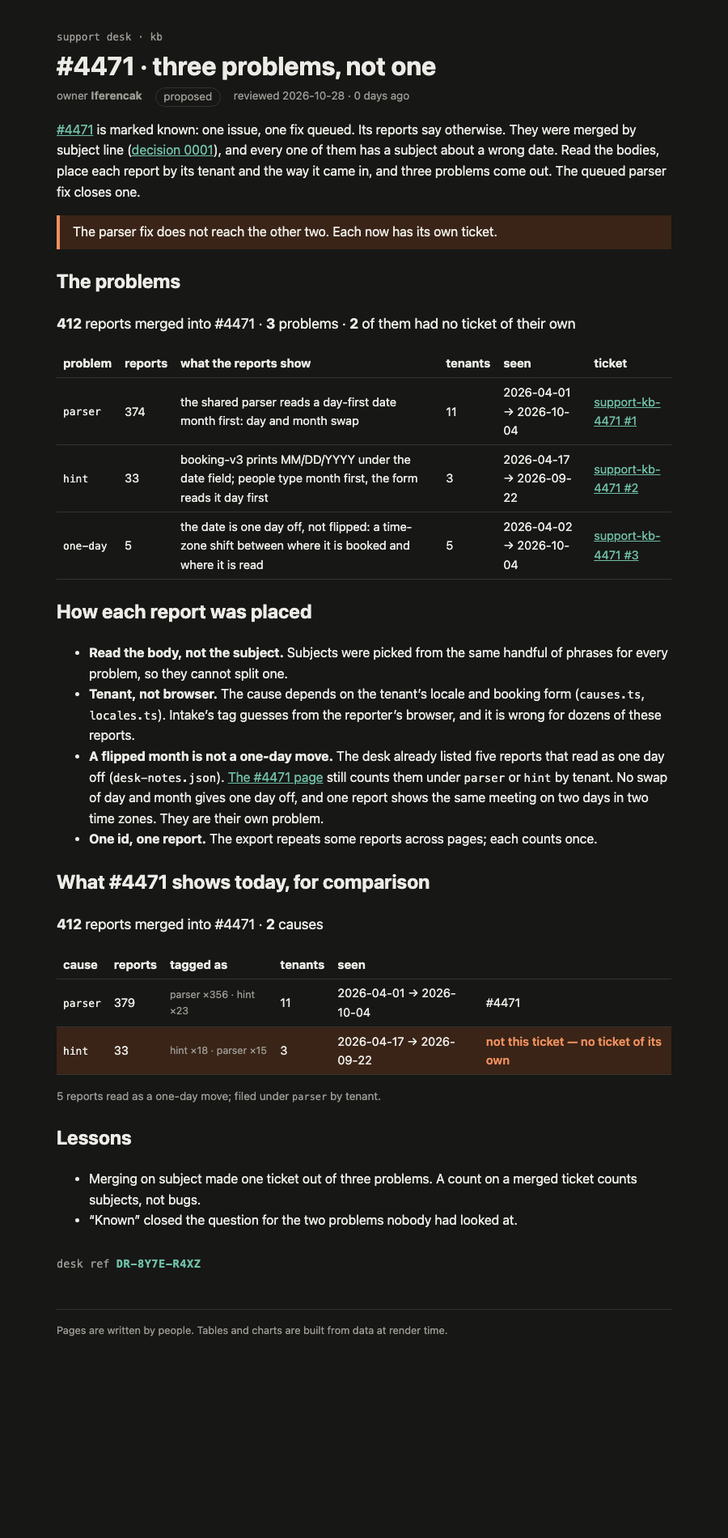
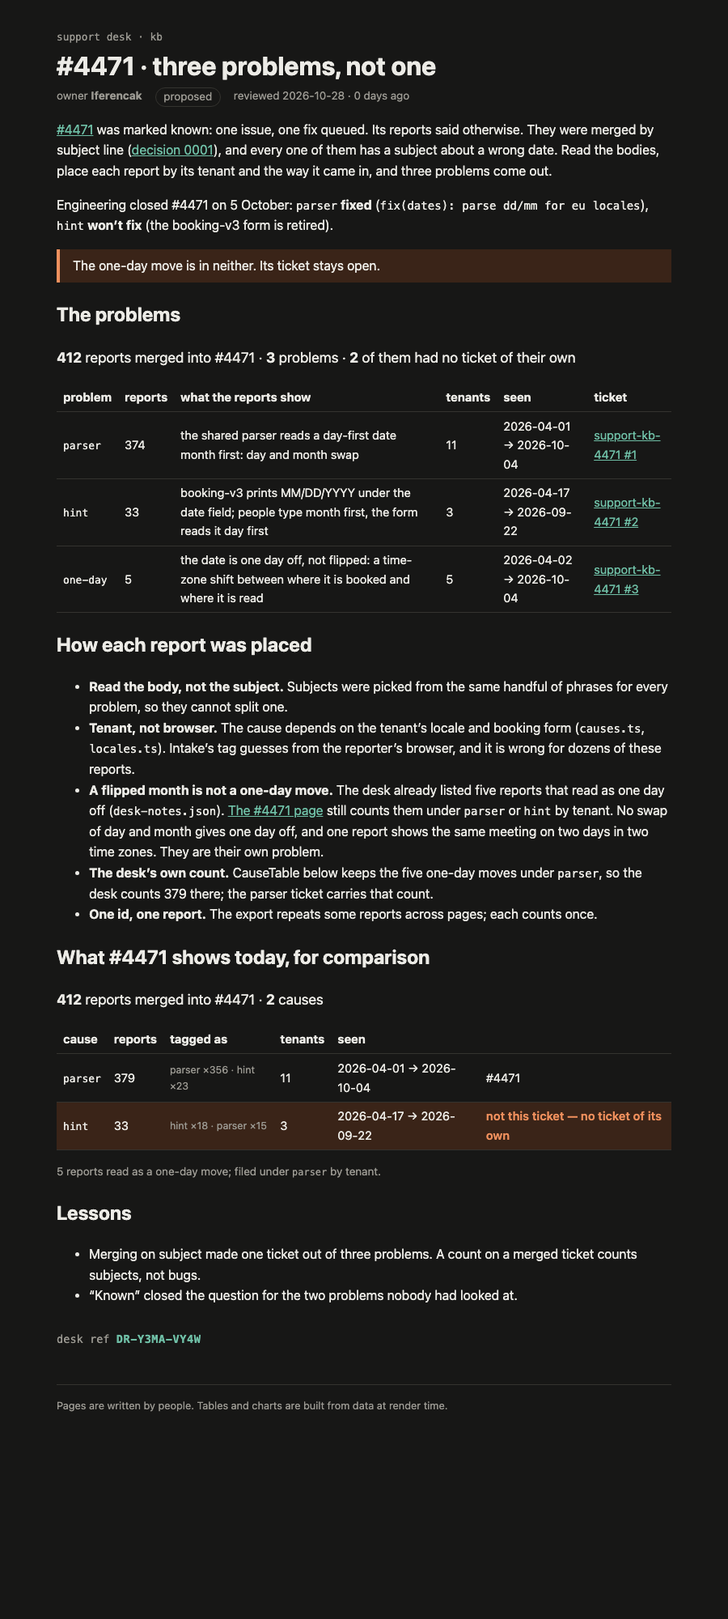
Sign the #4471 problems page with the course ticket; note the engineering update

diff --git a/build/kb/incidents/4471-problems.html b/build/kb/incidents/4471-problems.html
@@ -9,11 +9,11 @@
 		<link href="../../_app/immutable/chunks/B2Ul7l_u.js" rel="modulepreload">
 		<link href="../../_app/immutable/chunks/BCPXOG7W.js" rel="modulepreload">
 		<link href="../../_app/immutable/chunks/Dh1V97Jm.js" rel="modulepreload">
-		<link href="../../_app/immutable/entry/app.B90I1PcM.js" rel="modulepreload">
+		<link href="../../_app/immutable/entry/app.B06_3ySd.js" rel="modulepreload">
 		<link href="../../_app/immutable/nodes/0.C9KfiiPz.js" rel="modulepreload">
 		<link href="../../_app/immutable/chunks/DK3Fl9T5.js" rel="modulepreload">
-		<link href="../../_app/immutable/nodes/5.CSGv4fGk.js" rel="modulepreload">
-		<link href="../../_app/immutable/chunks/BqlhAtKi.js" rel="modulepreload">
+		<link href="../../_app/immutable/nodes/5.znO8hR4B.js" rel="modulepreload">
+		<link href="../../_app/immutable/chunks/DJBptTha.js" rel="modulepreload">
 		<link href="../../_app/immutable/chunks/BTPwLomz.js" rel="modulepreload">
 		<link href="../../_app/immutable/chunks/CVzl_KNK.js" rel="modulepreload">
 		<link href="../../_app/immutable/chunks/BIy4WKJS.js" rel="modulepreload">
@@ -23,29 +23,30 @@
 		<link href="../../_app/immutable/assets/CauseTable.DuKfINX_.css" rel="stylesheet">
 		<link href="../../_app/immutable/assets/_page.CgouBqEL.css" rel="stylesheet">
   </head>
-  <body><div style="display: contents"><!--[--><!--[--><!--[0--><!--[--><!--[--><!--[-1--><!--[--><div class="kb svelte-e2jw2j"><header><a class="crumb svelte-e2jw2j" href="/kb">support desk · kb</a> <h1 class="svelte-e2jw2j">#4471 · three problems, not one</h1> <p class="meta svelte-e2jw2j"><span>owner <b>Iferencak</b></span> <span class="status proposed svelte-e2jw2j">proposed</span> <span class="svelte-e2jw2j">reviewed 2026-10-28 · 0 days ago</span></p></header> <!--[-1--><!--]--> <main><p><a href="/kb/incidents/4471">#4471</a> is marked known: one issue, one fix queued. Its reports say otherwise.
+  <body><div style="display: contents"><!--[--><!--[--><!--[0--><!--[--><!--[--><!--[-1--><!--[--><div class="kb svelte-e2jw2j"><header><a class="crumb svelte-e2jw2j" href="/kb">support desk · kb</a> <h1 class="svelte-e2jw2j">#4471 · three problems, not one</h1> <p class="meta svelte-e2jw2j"><span>owner <b>Iferencak</b></span> <span class="status proposed svelte-e2jw2j">proposed</span> <span class="svelte-e2jw2j">reviewed 2026-10-28 · 0 days ago</span></p></header> <!--[-1--><!--]--> <main><p><a href="/kb/incidents/4471">#4471</a> was marked known: one issue, one fix queued. Its reports said otherwise.
 They were merged by subject line (<a href="/kb/decisions/0001-dedupe-by-subject">decision 0001</a>), and
 every one of them has a subject about a wrong date. Read the bodies, place each report by its
-tenant and the way it came in, and three problems come out. The queued parser fix closes one.</p> <aside class="warn svelte-17bri61"><!---->The parser fix does not reach the other two. Each now has its own ticket.<!----></aside><!----> <h2>The problems</h2> <p class="sum svelte-1op6c6"><strong>412</strong> reports merged into #4471 · <strong>3</strong> problems · <strong>2</strong> of them had no ticket of their own</p> <table><thead><tr><th>problem</th><th>reports</th><th>what the reports show</th><th>tenants</th><th>seen</th><th>ticket</th></tr></thead><tbody><!--[--><tr><td><code>parser</code></td><td>374</td><td>the shared parser reads a day-first date month first: day and month swap</td><td>11</td><td>2026-04-01 → 2026-10-04</td><td><!--[0--><a href="https://github.com/Iferencak/support-kb-4471/issues/1">support-kb-4471 #1</a><!--]--></td></tr><tr><td><code>hint</code></td><td>33</td><td>booking-v3 prints MM/DD/YYYY under the date field; people type month first, the form reads it day first</td><td>3</td><td>2026-04-17 → 2026-09-22</td><td><!--[0--><a href="https://github.com/Iferencak/support-kb-4471/issues/2">support-kb-4471 #2</a><!--]--></td></tr><tr><td><code>one-day</code></td><td>5</td><td>the date is one day off, not flipped: a time-zone shift between where it is booked and where it is read</td><td>5</td><td>2026-04-02 → 2026-10-04</td><td><!--[0--><a href="https://github.com/Iferencak/support-kb-4471/issues/3">support-kb-4471 #3</a><!--]--></td></tr><!--]--></tbody></table><!----> <h2>How each report was placed</h2> <ul><li><strong>Read the body, not the subject.</strong> Subjects were picked from the same handful of phrases for
+tenant and the way it came in, and three problems come out.</p> <p>Engineering closed #4471 on 5 October: <code>parser</code> <strong>fixed</strong> (<code>fix(dates): parse dd/mm for eu locales</code>), <code>hint</code> <strong>won’t fix</strong> (the booking-v3 form is retired).</p> <aside class="warn svelte-17bri61"><!---->The one-day move is in neither. Its ticket stays open.<!----></aside><!----> <h2>The problems</h2> <p class="sum svelte-1op6c6"><strong>412</strong> reports merged into #4471 · <strong>3</strong> problems · <strong>2</strong> of them had no ticket of their own</p> <table><thead><tr><th>problem</th><th>reports</th><th>what the reports show</th><th>tenants</th><th>seen</th><th>ticket</th></tr></thead><tbody><!--[--><tr><td><code>parser</code></td><td>374</td><td>the shared parser reads a day-first date month first: day and month swap</td><td>11</td><td>2026-04-01 → 2026-10-04</td><td><!--[0--><a href="https://github.com/Iferencak/support-kb-4471/issues/1">support-kb-4471 #1</a><!--]--></td></tr><tr><td><code>hint</code></td><td>33</td><td>booking-v3 prints MM/DD/YYYY under the date field; people type month first, the form reads it day first</td><td>3</td><td>2026-04-17 → 2026-09-22</td><td><!--[0--><a href="https://github.com/Iferencak/support-kb-4471/issues/2">support-kb-4471 #2</a><!--]--></td></tr><tr><td><code>one-day</code></td><td>5</td><td>the date is one day off, not flipped: a time-zone shift between where it is booked and where it is read</td><td>5</td><td>2026-04-02 → 2026-10-04</td><td><!--[0--><a href="https://github.com/Iferencak/support-kb-4471/issues/3">support-kb-4471 #3</a><!--]--></td></tr><!--]--></tbody></table><!----> <h2>How each report was placed</h2> <ul><li><strong>Read the body, not the subject.</strong> Subjects were picked from the same handful of phrases for
 every problem, so they cannot split one.</li> <li><strong>Tenant, not browser.</strong> The cause depends on the tenant’s locale and booking form
 (<code>causes.ts</code>, <code>locales.ts</code>). Intake’s tag guesses from the reporter’s browser, and it is wrong
 for dozens of these reports.</li> <li><strong>A flipped month is not a one-day move.</strong> The desk already listed five reports that read as
 one day off (<code>desk-notes.json</code>). <a href="/kb/incidents/4471">The #4471 page</a> still counts them under <code>parser</code> or <code>hint</code> by tenant. No swap of day and month gives one day off, and one report
-shows the same meeting on two days in two time zones. They are their own problem.</li> <li><strong>One id, one report.</strong> The export repeats some reports across pages; each counts once.</li></ul> <h2>What #4471 shows today, for comparison</h2> <p class="sum svelte-12oyimm"><strong>412</strong> reports merged into #4471 · <strong>2</strong> causes</p> <table><thead><tr><th>cause</th><th>reports</th><th>tagged as</th><th>tenants</th><th>seen</th><th></th></tr></thead><tbody><!--[--><tr class="svelte-12oyimm"><td class="svelte-12oyimm"><code>parser</code></td><td class="svelte-12oyimm">379</td><td class="tags svelte-12oyimm">parser ×356 · hint ×23</td><td class="svelte-12oyimm">11</td><td class="svelte-12oyimm">2026-04-01 → 2026-10-04</td><td class="svelte-12oyimm">#4471</td></tr><tr class="svelte-12oyimm wrong"><td class="svelte-12oyimm"><code>hint</code></td><td class="svelte-12oyimm">33</td><td class="tags svelte-12oyimm">hint ×18 · parser ×15</td><td class="svelte-12oyimm">3</td><td class="svelte-12oyimm">2026-04-17 → 2026-09-22</td><td class="svelte-12oyimm">not this ticket — no ticket of its own</td></tr><!--]--></tbody></table> <!--[--><!--[0--><p class="note svelte-12oyimm">5 reports read as a one-day move; filed under <code>parser</code> by tenant.</p><!--]--><!--[-1--><!--]--><!--]--><!----> <h2>Lessons</h2> <ul><li>Merging on subject made one ticket out of three problems. A count on a merged ticket counts
-subjects, not bugs.</li> <li>“Known” closed the question for the two problems nobody had looked at.</li></ul> <!--[0--><p class="stamp svelte-1280m42">desk ref <b class="svelte-1280m42">DR-8Y7E-R4XZ</b></p><!--]--><!----><!----></main> <footer class="svelte-e2jw2j">Pages are written by people. Tables and charts are built from data at render time.</footer></div><!--]--><!--]--><!--]--><!----><!--]--><!--]--><!--]--><!----> <!--[-1--><!--]--><!--]-->
+shows the same meeting on two days in two time zones. They are their own problem.</li> <li><strong>The desk’s own count.</strong> CauseTable below keeps the five one-day moves under <code>parser</code>, so the
+desk counts 379 there; the parser ticket carries that count.</li> <li><strong>One id, one report.</strong> The export repeats some reports across pages; each counts once.</li></ul> <h2>What #4471 shows today, for comparison</h2> <p class="sum svelte-12oyimm"><strong>412</strong> reports merged into #4471 · <strong>2</strong> causes</p> <table><thead><tr><th>cause</th><th>reports</th><th>tagged as</th><th>tenants</th><th>seen</th><th></th></tr></thead><tbody><!--[--><tr class="svelte-12oyimm"><td class="svelte-12oyimm"><code>parser</code></td><td class="svelte-12oyimm">379</td><td class="tags svelte-12oyimm">parser ×356 · hint ×23</td><td class="svelte-12oyimm">11</td><td class="svelte-12oyimm">2026-04-01 → 2026-10-04</td><td class="svelte-12oyimm">#4471</td></tr><tr class="svelte-12oyimm wrong"><td class="svelte-12oyimm"><code>hint</code></td><td class="svelte-12oyimm">33</td><td class="tags svelte-12oyimm">hint ×18 · parser ×15</td><td class="svelte-12oyimm">3</td><td class="svelte-12oyimm">2026-04-17 → 2026-09-22</td><td class="svelte-12oyimm">not this ticket — no ticket of its own</td></tr><!--]--></tbody></table> <!--[--><!--[0--><p class="note svelte-12oyimm">5 reports read as a one-day move; filed under <code>parser</code> by tenant.</p><!--]--><!--[-1--><!--]--><!--]--><!----> <h2>Lessons</h2> <ul><li>Merging on subject made one ticket out of three problems. A count on a merged ticket counts
+subjects, not bugs.</li> <li>“Known” closed the question for the two problems nobody had looked at.</li></ul> <!--[0--><p class="stamp svelte-1280m42">desk ref <b class="svelte-1280m42">DR-Y3MA-VY4W</b></p><!--]--><!----><!----></main> <footer class="svelte-e2jw2j">Pages are written by people. Tables and charts are built from data at render time.</footer></div><!--]--><!--]--><!--]--><!----><!--]--><!--]--><!--]--><!----> <!--[-1--><!--]--><!--]-->
 			
 			<script>
 				{
-					__sveltekit_e0d67l = {
+					__sveltekit_1xg144a = {
 						base: new URL("../..", location).pathname.slice(0, -1),
-						version: "1793183224512"
+						version: "1793183503087"
 					};
 
 					const element = document.currentScript.parentElement;
 
 					import("../../_app/immutable/entry/start.CH5w6lId.js").then(async (kit) => {
-						kit.init(__sveltekit_e0d67l);
-						const app = await import("../../_app/immutable/entry/app.B90I1PcM.js");
+						kit.init(__sveltekit_1xg144a);
+						const app = await import("../../_app/immutable/entry/app.B06_3ySd.js");
 						kit.start(app, element, {
 							node_ids: [0, 5],
 							data: [null,null],

diff --git a/build/_app/immutable/chunks/DJBptTha.js b/build/_app/immutable/chunks/DJBptTha.js
@@ -1,0 +1,11 @@
+import{t as e}from"./DK3Fl9T5.js";import{E as t,F as n,H as r,I as i,K as a,L as o,N as s,O as c,R as l,S as u,T as d,U as f,W as p,_ as m,c as h,h as g,k as _,q as v,r as y,t as b,w as x}from"./BCPXOG7W.js";import{t as S}from"./BTPwLomz.js";import{n as C,r as w,t as T}from"./CVzl_KNK.js";import{a as E,l as D,r as O,t as k}from"./BIy4WKJS.js";var A=t(`<a> </a>`),j=t(`<tr><td><code> </code></td><td> </td><td> </td><td> </td><td> </td><td><!></td></tr>`),M=t(`<p class="sum svelte-1op6c6"><strong> </strong> <strong> </strong> problems · <strong> </strong> of them had no ticket of their own</p> <table><thead><tr><th>problem</th><th>reports</th><th>what the reports show</th><th>tenants</th><th>seen</th><th>ticket</th></tr></thead><tbody></tbody></table>`,1);function N(e,t){p(t,!0);let d=r(()=>D(w).filter(e=>e.mergedInto===t.ticket)),y=r(()=>_(d).filter(e=>C.oneDayMove.includes(e.id))),b=r(()=>{let e=E(_(d).filter(e=>!C.oneDayMove.includes(e.id)),O),t=E(_(y),()=>void 0).map(e=>({...e,cause:`one-day`}));return[...e,...t]}),S={parser:`the shared parser reads a day-first date month first: day and month swap`,hint:`booking-v3 prints MM/DD/YYYY under the date field; people type month first, the form reads it day first`,"one-day":`the date is one day off, not flipped: a time-zone shift between where it is booked and where it is read`,unplaced:`no tenant on file: cause unknown`};var T=M(),k=i(T),N=n(k),P=o(N,!0),F=l(N),I=l(F),L=o(I,!0),R=l(I,2),z=o(R,!0);a(),v(k);var B=l(k,2),V=l(n(B));g(V,21,()=>_(b),e=>e.cause,(e,r)=>{var i=j(),a=n(i),d=n(a),f=o(d,!0);v(a);var p=l(a),g=o(p,!0),y=l(p),b=o(y,!0),C=l(y),w=o(C,!0),T=l(C),E=o(T),D=l(T),O=n(D),k=e=>{var n=A(),i=o(n,!0);s(e=>{h(n,`href`,t.tickets[_(r).cause]),u(i,e)},[()=>t.tickets[_(r).cause].split(`/`).slice(-3).join(` `).replace(` issues `,` #`)]),x(e,n)},M=e=>{var t=c(`none`);x(e,t)};m(O,e=>{t.tickets[_(r).cause]?e(k):e(M,-1)}),v(D),v(i),s(()=>{u(f,_(r).cause),u(g,_(r).reports.length),u(b,S[_(r).cause]),u(w,_(r).tenants),u(E,`${_(r).firstSeen??``} → ${_(r).lastSeen??``}`)}),x(e,i)}),v(V),v(B),s(()=>{u(P,_(d).length),u(F,` reports merged into #${t.ticket??``} · `),u(L,_(b).length),u(z,_(b).length-1)}),x(e,T),f()}var P=`0123456789ABCDEFGHJKMNPQRSTVWXYZ`;function F(e,t){let n=t>>>0;for(let t=0;t<e.length;t++)n^=e.charCodeAt(t),n=Math.imul(n,16777619)>>>0;return n}function I(e){let t=e.trim(),n=F(t,2166136261),r=F(t,2654435769),i=BigInt(n)<<8n|BigInt(r&255),a=``;for(let e=0;e<8;e++)a=P[Number(i&31n)]+a,i>>=5n;return`DR-${a.slice(0,4)}-${a.slice(4)}`}var L=t(`<p class="stamp svelte-1280m42">desk ref <b class="svelte-1280m42"> </b></p>`),R=t(`<p class="stamp missing svelte-1280m42">no desk ref: this page isn't signed (no <code>signature</code> in its frontmatter)</p>`);function z(e,t){p(t,!0);let a=r(()=>t.signature?I(t.signature):null);var c=d(),h=i(c),g=e=>{var t=L(),r=l(n(t)),i=o(r,!0);v(t),s(()=>u(i,_(a))),x(e,t)},y=e=>{var t=R();x(e,t)};m(h,e=>{_(a)?e(g):e(y,-1)}),x(e,c),f()}var B=e({default:()=>Y,metadata:()=>V}),V={layout:`runbook`,title:`#4471 · three problems, not one`,owner:`Iferencak`,status:`proposed`,reviewed:`2026-10-28T00:00:00.000Z`,signature:`v1.eyJzdWIiOiIzOTAzIiwiYXVkIjoiY2hhbGxlbmdlOndoYXQtaXQtc2hvd3MiLCJpYXQiOjE3OTMxODM0ODcsImV4cCI6MTc5MzI2OTg4N30._7yXpcgdD5OqLRWH2aBY1gdiMoEGspvPhGZucllLkB4`},{layout:H,title:U,owner:W,status:G,reviewed:K,signature:q}=V,J=t(`<p><a href="/kb/incidents/4471">#4471</a> was marked known: one issue, one fix queued. Its reports said otherwise.
+They were merged by subject line (<a href="/kb/decisions/0001-dedupe-by-subject">decision 0001</a>), and
+every one of them has a subject about a wrong date. Read the bodies, place each report by its
+tenant and the way it came in, and three problems come out.</p> <p>Engineering closed #4471 on 5 October: <code>parser</code> <strong>fixed</strong> (<code>fix(dates): parse dd/mm for eu locales</code>), <code>hint</code> <strong>won’t fix</strong> (the booking-v3 form is retired).</p> <!> <h2>The problems</h2> <!> <h2>How each report was placed</h2> <ul><li><strong>Read the body, not the subject.</strong> Subjects were picked from the same handful of phrases for
+every problem, so they cannot split one.</li> <li><strong>Tenant, not browser.</strong> The cause depends on the tenant’s locale and booking form
+(<code>causes.ts</code>, <code>locales.ts</code>). Intake’s tag guesses from the reporter’s browser, and it is wrong
+for dozens of these reports.</li> <li><strong>A flipped month is not a one-day move.</strong> The desk already listed five reports that read as
+one day off (<code>desk-notes.json</code>). <a href="/kb/incidents/4471">The #4471 page</a> still counts them under <code>parser</code> or <code>hint</code> by tenant. No swap of day and month gives one day off, and one report
+shows the same meeting on two days in two time zones. They are their own problem.</li> <li><strong>The desk’s own count.</strong> CauseTable below keeps the five one-day moves under <code>parser</code>, so the
+desk counts 379 there; the parser ticket carries that count.</li> <li><strong>One id, one report.</strong> The export repeats some reports across pages; each counts once.</li></ul> <h2>What #4471 shows today, for comparison</h2> <!> <h2>Lessons</h2> <ul><li>Merging on subject made one ticket out of three problems. A count on a merged ticket counts
+subjects, not bugs.</li> <li>“Known” closed the question for the two problems nobody had looked at.</li></ul> <!>`,1);function Y(e,t){let n=b(t,[`children`,`$$slots`,`$$events`,`$$legacy`]),r=`https://github.com/Iferencak/support-kb-4471/issues`,o={parser:`${r}/1`,hint:`${r}/2`,"one-day":`${r}/3`};S(e,y(()=>n,()=>V,{children:(e,t)=>{var n=J(),r=l(i(n),4);k(r,{kind:`warn`,children:(e,t)=>{a();var n=c(`The one-day move is in neither. Its ticket stays open.`);x(e,n)},$$slots:{default:!0}});var s=l(r,4);N(s,{ticket:4471,get tickets(){return o}});var u=l(s,8);T(u,{ticket:4471}),z(l(u,6),{get signature(){return q}}),x(e,n)},$$slots:{default:!0}}))}export{Y as n,B as t};

diff --git a/build/_app/immutable/nodes/2.z-dfzos8.js b/build/_app/immutable/nodes/2.z-dfzos8.js
@@ -1,0 +1,2 @@
+import{E as e,F as t,I as n,K as r,L as i,N as a,R as o,S as s,U as c,W as l,c as u,d,h as f,i as p,k as m,q as h,r as g,t as _,w as v}from"../chunks/BCPXOG7W.js";import{n as y,r as b,t as x}from"../chunks/BTPwLomz.js";import{t as S}from"../chunks/YX22L_Ud.js";import{t as C}from"../chunks/DQEJtU6k.js";import{t as w}from"../chunks/DJBptTha.js";import{t as T}from"../chunks/BGqJVSDw.js";var E=e(`<tr><td><a> </a></td><td> </td><td> </td><td> </td></tr>`),D=e(`<table><thead><tr><th>page</th><th>owner</th><th>status</th><th>reviewed</th></tr></thead><tbody></tbody></table>`);function O(e,n){l(n,!1);let r=Object.entries(Object.assign({"/src/routes/kb/decisions/0001-dedupe-by-subject/+page.svx":S,"/src/routes/kb/incidents/4471/+page.svx":C,"/src/routes/kb/incidents/4471-problems/+page.svx":w,"/src/routes/kb/triage/dedupe/+page.svx":T})).map(([e,t])=>({href:e.replace(`/src/routes`,``).replace(`/+page.svx`,``),...t.metadata})).sort((e,t)=>e.href.localeCompare(t.href));p();var g=D(),_=o(t(g));f(_,5,()=>r,e=>e.href,(e,n)=>{var r=E(),c=t(r),l=t(c),f=i(l,!0);h(c);var p=o(c),g=i(p,!0),_=o(p),x=i(_,!0),S=o(_);let C;var w=i(S,!0);h(r),a((e,t)=>{u(l,`href`,m(n).href),s(f,m(n).title),s(g,m(n).owner),s(x,m(n).status),C=d(S,1,`svelte-tbc1ha`,null,C,{stale:e}),s(w,t)},[()=>y(m(n).reviewed)>180,()=>b(m(n).reviewed)]),v(e,r)}),h(_),h(g),v(e,g),c()}var k={layout:`runbook`,title:`Support knowledge base`,owner:`support desk`,status:`living`,reviewed:`2026-09-28T00:00:00.000Z`},{layout:A,title:j,owner:M,status:N,reviewed:P}=k,F=e(`<p>What the support desk knows, kept next to the code that knows it. One desk, every product: <code>sched-prod</code> (calendar invites for about 300k people) and the rest. When something breaks, the reports land here first.</p> <p>Start with <a href="/kb/triage/dedupe">triage</a> if you are new on the desk.</p> <h2>Pages</h2> <!> <h2>Writing a page</h2> <p>Keep the words here and the logic in <code>src/lib</code>. A number that can be computed should be
+computed by a component, not typed into a paragraph.</p>`,1);function I(e,t){let i=_(t,[`children`,`$$slots`,`$$events`,`$$legacy`]);x(e,g(()=>i,()=>k,{children:(e,t)=>{var i=F();O(o(n(i),6),{}),r(4),v(e,i)},$$slots:{default:!0}}))}export{I as component};

diff --git a/build/kb.html b/build/kb.html
@@ -9,16 +9,16 @@
 		<link href="./_app/immutable/chunks/B2Ul7l_u.js" rel="modulepreload">
 		<link href="./_app/immutable/chunks/BCPXOG7W.js" rel="modulepreload">
 		<link href="./_app/immutable/chunks/Dh1V97Jm.js" rel="modulepreload">
-		<link href="./_app/immutable/entry/app.B90I1PcM.js" rel="modulepreload">
+		<link href="./_app/immutable/entry/app.B06_3ySd.js" rel="modulepreload">
 		<link href="./_app/immutable/nodes/0.C9KfiiPz.js" rel="modulepreload">
 		<link href="./_app/immutable/chunks/DK3Fl9T5.js" rel="modulepreload">
-		<link href="./_app/immutable/nodes/2.DAHNqY6H.js" rel="modulepreload">
+		<link href="./_app/immutable/nodes/2.z-dfzos8.js" rel="modulepreload">
 		<link href="./_app/immutable/chunks/BTPwLomz.js" rel="modulepreload">
 		<link href="./_app/immutable/chunks/YX22L_Ud.js" rel="modulepreload">
 		<link href="./_app/immutable/chunks/DQEJtU6k.js" rel="modulepreload">
 		<link href="./_app/immutable/chunks/CVzl_KNK.js" rel="modulepreload">
 		<link href="./_app/immutable/chunks/BIy4WKJS.js" rel="modulepreload">
-		<link href="./_app/immutable/chunks/BqlhAtKi.js" rel="modulepreload">
+		<link href="./_app/immutable/chunks/DJBptTha.js" rel="modulepreload">
 		<link href="./_app/immutable/chunks/BGqJVSDw.js" rel="modulepreload">
 		<!--e2jw2j--><!----><title>Support knowledge base · support kb</title>
 		<link href="./_app/immutable/assets/runbook.COyw0cbZ.css" rel="stylesheet">
@@ -34,16 +34,16 @@ computed by a component, not typed into a paragraph.</p><!----></main> <footer c
 			
 			<script>
 				{
-					__sveltekit_e0d67l = {
+					__sveltekit_1xg144a = {
 						base: new URL(".", location).pathname.slice(0, -1),
-						version: "1793183224512"
+						version: "1793183503087"
 					};
 
 					const element = document.currentScript.parentElement;
 
 					import("./_app/immutable/entry/start.CH5w6lId.js").then(async (kit) => {
-						kit.init(__sveltekit_e0d67l);
-						const app = await import("./_app/immutable/entry/app.B90I1PcM.js");
+						kit.init(__sveltekit_1xg144a);
+						const app = await import("./_app/immutable/entry/app.B06_3ySd.js");
 						kit.start(app, element, {
 							node_ids: [0, 2],
 							data: [null,null],

diff --git a/build/_app/immutable/entry/app.B06_3ySd.js b/build/_app/immutable/entry/app.B06_3ySd.js
@@ -1,0 +1,2 @@
+const __vite__mapDeps=(i,m=__vite__mapDeps,d=(m.f||(m.f=["../nodes/0.C9KfiiPz.js","../chunks/DK3Fl9T5.js","../chunks/BCPXOG7W.js","../nodes/1.mOwa9YdW.js","../chunks/Dh1V97Jm.js","./payload.DSmR2FwN.js","../nodes/2.z-dfzos8.js","../chunks/BTPwLomz.js","../assets/runbook.COyw0cbZ.css","../chunks/YX22L_Ud.js","../chunks/DQEJtU6k.js","../chunks/CVzl_KNK.js","../chunks/BIy4WKJS.js","../assets/Callout.AbLv9dM_.css","../assets/CauseTable.DuKfINX_.css","../assets/_page.BwRNheVv.css","../chunks/DJBptTha.js","../assets/_page.CgouBqEL.css","../chunks/BGqJVSDw.js","../assets/_page.DO6Yid7X.css","../assets/2.Bt0MwIZg.css","../nodes/3.DRxPfvn3.js","../nodes/4.Lxj3M29p.js","../nodes/5.znO8hR4B.js","../nodes/6.sFtxrtyV.js"])))=>i.map(i=>d[i]);
+import{t as e}from"../chunks/CRzLMJPS.js";var t={},n=[()=>e(()=>import(`../nodes/0.C9KfiiPz.js`),__vite__mapDeps([0,1,2]),import.meta.url),()=>e(()=>import(`../nodes/1.mOwa9YdW.js`),__vite__mapDeps([3,2,4,5]),import.meta.url),()=>e(()=>import(`../nodes/2.z-dfzos8.js`),__vite__mapDeps([6,2,7,8,9,1,10,11,12,13,14,15,16,17,18,19,20]),import.meta.url),()=>e(()=>import(`../nodes/3.DRxPfvn3.js`),__vite__mapDeps([21,9,1,2,7,8]),import.meta.url),()=>e(()=>import(`../nodes/4.Lxj3M29p.js`),__vite__mapDeps([22,10,1,2,7,8,11,12,13,14,15]),import.meta.url),()=>e(()=>import(`../nodes/5.znO8hR4B.js`),__vite__mapDeps([23,16,1,2,7,8,11,12,13,14,17]),import.meta.url),()=>e(()=>import(`../nodes/6.sFtxrtyV.js`),__vite__mapDeps([24,18,1,2,7,8,12,13,19]),import.meta.url)],r=[],i={"/kb":[2],"/kb/decisions/0001-dedupe-by-subject":[3],"/kb/incidents/4471-problems":[5],"/kb/incidents/4471":[4],"/kb/triage/dedupe":[6]},a={handleError:(({kind:e,error:t})=>{e===`unknown`&&console.error(t)}),reroute:(()=>{}),transport:{}},o=Object.fromEntries(Object.entries(a.transport).map(([e,t])=>[e,t.decode])),s=Object.fromEntries(Object.entries(a.transport).map(([e,t])=>[e,t.encode])),c=!1,l=(e,t)=>o[e](t),u=()=>e(()=>import(`../chunks/Bjy-W4x2.js`).then(e=>e.default),[],import.meta.url);export{l as decode,o as decoders,i as dictionary,s as encoders,u as get_error_template,c as hash,a as hooks,t as matchers,n as nodes,r as server_loads};

diff --git a/build/kb/decisions/0001-dedupe-by-subject.html b/build/kb/decisions/0001-dedupe-by-subject.html
@@ -9,7 +9,7 @@
 		<link href="../../_app/immutable/chunks/B2Ul7l_u.js" rel="modulepreload">
 		<link href="../../_app/immutable/chunks/BCPXOG7W.js" rel="modulepreload">
 		<link href="../../_app/immutable/chunks/Dh1V97Jm.js" rel="modulepreload">
-		<link href="../../_app/immutable/entry/app.B90I1PcM.js" rel="modulepreload">
+		<link href="../../_app/immutable/entry/app.B06_3ySd.js" rel="modulepreload">
 		<link href="../../_app/immutable/nodes/0.C9KfiiPz.js" rel="modulepreload">
 		<link href="../../_app/immutable/chunks/DK3Fl9T5.js" rel="modulepreload">
 		<link href="../../_app/immutable/nodes/3.DRxPfvn3.js" rel="modulepreload">
@@ -25,16 +25,16 @@ engineering merges them later.</li></ul><!----></main> <footer class="svelte-e2j
 			
 			<script>
 				{
-					__sveltekit_e0d67l = {
+					__sveltekit_1xg144a = {
 						base: new URL("../..", location).pathname.slice(0, -1),
-						version: "1793183224512"
+						version: "1793183503087"
 					};
 
 					const element = document.currentScript.parentElement;
 
 					import("../../_app/immutable/entry/start.CH5w6lId.js").then(async (kit) => {
-						kit.init(__sveltekit_e0d67l);
-						const app = await import("../../_app/immutable/entry/app.B90I1PcM.js");
+						kit.init(__sveltekit_1xg144a);
+						const app = await import("../../_app/immutable/entry/app.B06_3ySd.js");
 						kit.start(app, element, {
 							node_ids: [0, 3],
 							data: [null,null],

diff --git a/build/kb/incidents/4471.html b/build/kb/incidents/4471.html
@@ -9,7 +9,7 @@
 		<link href="../../_app/immutable/chunks/B2Ul7l_u.js" rel="modulepreload">
 		<link href="../../_app/immutable/chunks/BCPXOG7W.js" rel="modulepreload">
 		<link href="../../_app/immutable/chunks/Dh1V97Jm.js" rel="modulepreload">
-		<link href="../../_app/immutable/entry/app.B90I1PcM.js" rel="modulepreload">
+		<link href="../../_app/immutable/entry/app.B06_3ySd.js" rel="modulepreload">
 		<link href="../../_app/immutable/nodes/0.C9KfiiPz.js" rel="modulepreload">
 		<link href="../../_app/immutable/chunks/DK3Fl9T5.js" rel="modulepreload">
 		<link href="../../_app/immutable/nodes/4.Lxj3M29p.js" rel="modulepreload">
@@ -29,16 +29,16 @@ first. The fix is queued.</p> <aside class="note svelte-17bri61"><!---->Known. O
 			
 			<script>
 				{
-					__sveltekit_e0d67l = {
+					__sveltekit_1xg144a = {
 						base: new URL("../..", location).pathname.slice(0, -1),
-						version: "1793183224512"
+						version: "1793183503087"
 					};
 
 					const element = document.currentScript.parentElement;
 
 					import("../../_app/immutable/entry/start.CH5w6lId.js").then(async (kit) => {
-						kit.init(__sveltekit_e0d67l);
-						const app = await import("../../_app/immutable/entry/app.B90I1PcM.js");
+						kit.init(__sveltekit_1xg144a);
+						const app = await import("../../_app/immutable/entry/app.B06_3ySd.js");
 						kit.start(app, element, {
 							node_ids: [0, 4],
 							data: [null,null],

diff --git a/build/kb/triage/dedupe.html b/build/kb/triage/dedupe.html
@@ -9,7 +9,7 @@
 		<link href="../../_app/immutable/chunks/B2Ul7l_u.js" rel="modulepreload">
 		<link href="../../_app/immutable/chunks/BCPXOG7W.js" rel="modulepreload">
 		<link href="../../_app/immutable/chunks/Dh1V97Jm.js" rel="modulepreload">
-		<link href="../../_app/immutable/entry/app.B90I1PcM.js" rel="modulepreload">
+		<link href="../../_app/immutable/entry/app.B06_3ySd.js" rel="modulepreload">
 		<link href="../../_app/immutable/nodes/0.C9KfiiPz.js" rel="modulepreload">
 		<link href="../../_app/immutable/chunks/DK3Fl9T5.js" rel="modulepreload">
 		<link href="../../_app/immutable/nodes/6.sFtxrtyV.js" rel="modulepreload">
@@ -28,16 +28,16 @@ anything else.<!----></aside><!----> <h2>Try it</h2> <div class="try svelte-gq0h
 			
 			<script>
 				{
-					__sveltekit_e0d67l = {
+					__sveltekit_1xg144a = {
 						base: new URL("../..", location).pathname.slice(0, -1),
-						version: "1793183224512"
+						version: "1793183503087"
 					};
 
 					const element = document.currentScript.parentElement;
 
 					import("../../_app/immutable/entry/start.CH5w6lId.js").then(async (kit) => {
-						kit.init(__sveltekit_e0d67l);
-						const app = await import("../../_app/immutable/entry/app.B90I1PcM.js");
+						kit.init(__sveltekit_1xg144a);
+						const app = await import("../../_app/immutable/entry/app.B06_3ySd.js");
 						kit.start(app, element, {
 							node_ids: [0, 6],
 							data: [null,null],

diff --git a/build/_app/immutable/nodes/5.znO8hR4B.js b/build/_app/immutable/nodes/5.znO8hR4B.js
@@ -1,0 +1,1 @@
+export{n as component}from"../chunks/DJBptTha.js";
